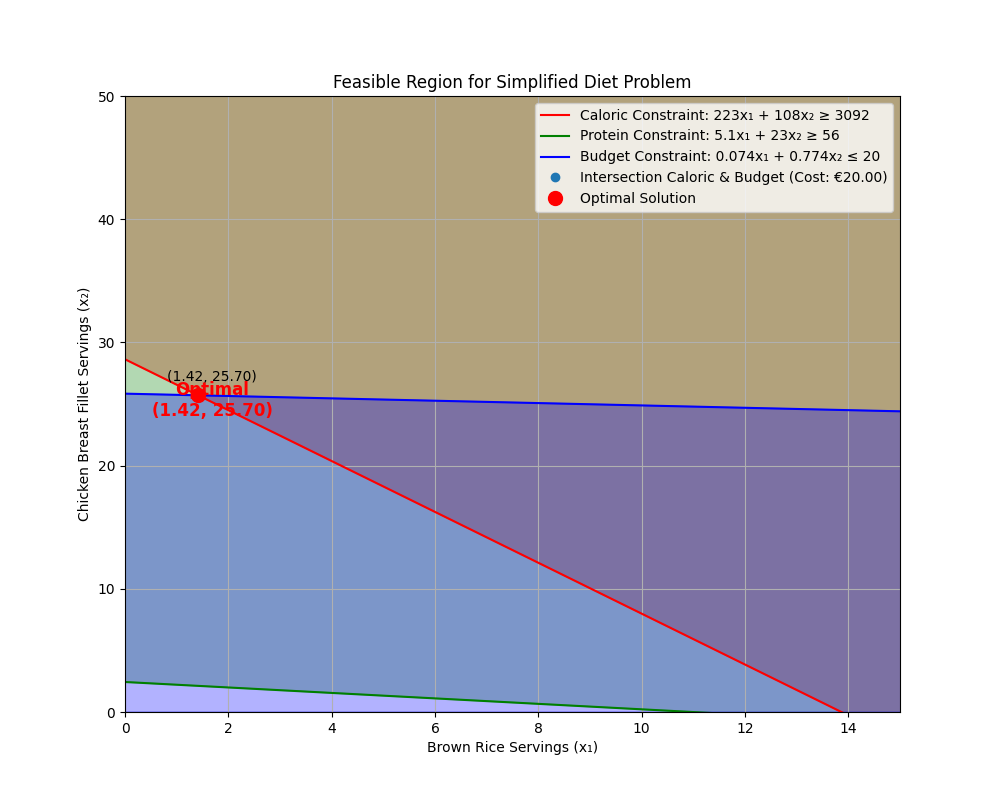
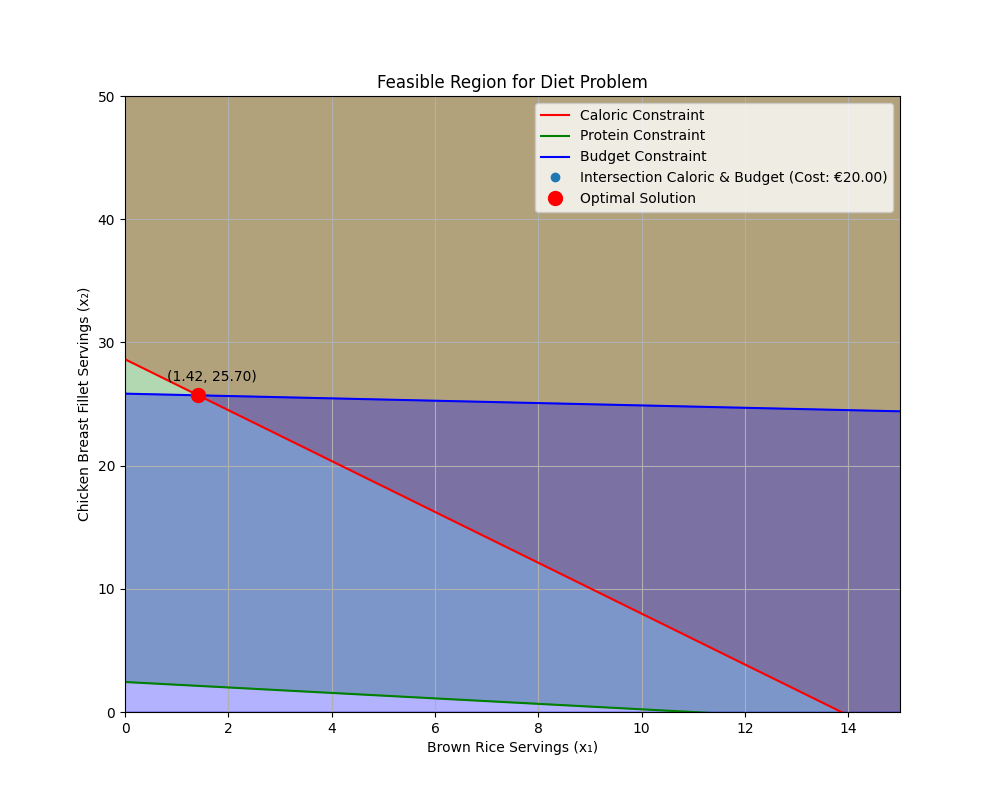
Nov 8, 2024, 3:48 PM

Changed region(s): [[0.713, 0.125, 0.868, 0.2188], [0.341, 0.0938, 0.682, 0.125], [0.155, 0.4688, 0.279, 0.5312]]

diff --git a/Management Science/Ver3.py b/Management Science/Ver3.py
@@ -1,14 +1,10 @@
-# diet_problem_enhanced.py
-
 import matplotlib.pyplot as plt
 import numpy as np
 
 def find_intersection(coeff1, const1, coeff2, const2):
     """
-    Finds the intersection point of two lines given by:
-    coeff1[0]*x + coeff1[1]*y = const1
-    coeff2[0]*x + coeff2[1]*y = const2
-    Returns (x, y) if there is a unique solution, else None.
+    Finds the intersection point of two lines.
+    Returns (x, y) if a unique solution exists, else None.
     """
     A = np.array([coeff1, coeff2])
     B = np.array([const1, const2])
@@ -16,175 +12,105 @@ def find_intersection(coeff1, const1, coeff2, const2):
         solution = np.linalg.solve(A, B)
         return tuple(solution)
     except np.linalg.LinAlgError:
-        # Lines are parallel or coincident
         return None
 
 def is_feasible(point, constraints):
     """
-    Checks if a point satisfies all constraints.
-    Constraints is a list of dictionaries with:
-    - 'type': '>=', '<=', or '='
-    - 'coefficients': [a, b] for ax + by
-    - 'constant': value on the other side
+    Checks if a point satisfies all given constraints.
     """
     x, y = point
     for constraint in constraints:
         lhs = constraint['coefficients'][0]*x + constraint['coefficients'][1]*y
-        if constraint['type'] == '>=':
-            if lhs < constraint['constant']:
-                return False
-        elif constraint['type'] == '<=':
-            if lhs > constraint['constant']:
-                return False
-        elif constraint['type'] == '=':
-            if not np.isclose(lhs, constraint['constant']):
-                return False
+        if constraint['type'] == '>=' and lhs < constraint['constant']:
+            return False
+        elif constraint['type'] == '<=' and lhs > constraint['constant']:
+            return False
+        elif constraint['type'] == '=' and not np.isclose(lhs, constraint['constant']):
+            return False
     return True
 
 def plot_constraints(x1, caloric_x2, protein_x2, budget_x2):
     """
-    Plots the constraints and shades the feasible region.
+    Plots constraints and shades feasible regions.
     """
     plt.figure(figsize=(10, 8))
-    
-    # Caloric constraint
-    plt.plot(x1, caloric_x2, label='Caloric Constraint: 223x₁ + 108x₂ ≥ 3092', color='red')
+    plt.plot(x1, caloric_x2, label='Caloric Constraint', color='red')
     plt.fill_between(x1, caloric_x2, 50, where=(caloric_x2 < 50), color='red', alpha=0.3)
-    
-    # Protein constraint
-    plt.plot(x1, protein_x2, label='Protein Constraint: 5.1x₁ + 23x₂ ≥ 56', color='green')
+    plt.plot(x1, protein_x2, label='Protein Constraint', color='green')
     plt.fill_between(x1, protein_x2, 50, where=(protein_x2 < 50), color='green', alpha=0.3)
-    
-    # Budget constraint
-    plt.plot(x1, budget_x2, label='Budget Constraint: 0.074x₁ + 0.774x₂ ≤ 20', color='blue')
+    plt.plot(x1, budget_x2, label='Budget Constraint', color='blue')
     plt.fill_between(x1, 0, budget_x2, where=(budget_x2 > 0), color='blue', alpha=0.3)
-    
-    # Feasible region boundaries
     plt.xlim(0, 15)
     plt.ylim(0, 50)
-    
-    # Labels and title
     plt.xlabel('Brown Rice Servings (x₁)')
     plt.ylabel('Chicken Breast Fillet Servings (x₂)')
-    plt.title('Feasible Region for Simplified Diet Problem')
-    
-    # Adding legend
+    plt.title('Feasible Region for Diet Problem')
     plt.legend(loc='upper right')
-    
-    # Adding grid
     plt.grid(True)
-    
     return plt
 
 def main():
-    # Define the range for x1
     x1 = np.linspace(0, 20, 400)
-    
-    # Define the constraints
-    # Caloric constraint: 223x1 + 108x2 >= 3092 => x2 >= (3092 - 223x1)/108
     caloric_x2 = (3092 - 223 * x1) / 108
-    
-    # Protein constraint: 5.1x1 + 23x2 >= 56 => x2 >= (56 - 5.1x1)/23
     protein_x2 = (56 - 5.1 * x1) / 23
-    
-    # Budget constraint: 0.074x1 + 0.774x2 <= 20 => x2 <= (20 - 0.074x1)/0.774
     budget_x2 = (20 - 0.074 * x1) / 0.774
-    
-    # Plot the constraints
     plt = plot_constraints(x1, caloric_x2, protein_x2, budget_x2)
     
-    # Define the constraints for feasibility checking
     constraints = [
-        {'type': '>=', 'coefficients': [223, 108], 'constant': 3092},   # Caloric
-        {'type': '>=', 'coefficients': [5.1, 23], 'constant': 56},     # Protein
-        {'type': '<=', 'coefficients': [0.074, 0.774], 'constant': 20} # Budget
+        {'type': '>=', 'coefficients': [223, 108], 'constant': 3092},
+        {'type': '>=', 'coefficients': [5.1, 23], 'constant': 56},
+        {'type': '<=', 'coefficients': [0.074, 0.774], 'constant': 20}
     ]
     
-    # Define the equations for intersection
-    # 1. Caloric and Protein
     intersection1 = find_intersection([223, 108], 3092, [5.1, 23], 56)
-    
-    # 2. Caloric and Budget
     intersection2 = find_intersection([223, 108], 3092, [0.074, 0.774], 20)
-    
-    # 3. Protein and Budget
     intersection3 = find_intersection([5.1, 23], 56, [0.074, 0.774], 20)
     
-    # List of intersection points
     intersections = []
     labels = []
     
-    # Check each intersection for feasibility
-    if intersection1:
-        if is_feasible(intersection1, constraints):
-            intersections.append(intersection1)
-            labels.append('Intersection Caloric & Protein')
+    if intersection1 and is_feasible(intersection1, constraints):
+        intersections.append(intersection1)
+        labels.append('Intersection Caloric & Protein')
+    if intersection2 and is_feasible(intersection2, constraints):
+        intersections.append(intersection2)
+        labels.append('Intersection Caloric & Budget')
+    if intersection3 and is_feasible(intersection3, constraints):
+        intersections.append(intersection3)
+        labels.append('Intersection Protein & Budget')
     
-    if intersection2:
-        if is_feasible(intersection2, constraints):
-            intersections.append(intersection2)
-            labels.append('Intersection Caloric & Budget')
-    
-    if intersection3:
-        if is_feasible(intersection3, constraints):
-            intersections.append(intersection3)
-            labels.append('Intersection Protein & Budget')
-    
-    # Print the intersection points
     print("=== Intersection Points ===")
     for i, point in enumerate(intersections):
         print(f"{labels[i]}: x₁ = {point[0]:.2f}, x₂ = {point[1]:.2f}")
-    
-    # If no feasible intersection points, notify the user
     if not intersections:
         print("No feasible intersection points found.")
         return
     
-    # Define the objective function coefficients
-    # Z = 0.074x1 + 0.774x2
     def objective(x1, x2):
         return 0.074 * x1 + 0.774 * x2
     
-    # Evaluate the objective function at each feasible intersection
-    costs = []
-    for point in intersections:
-        cost = objective(point[0], point[1])
-        costs.append(cost)
-        print(f"Cost at {labels[intersections.index(point)]}: €{cost:.2f}")
+    costs = [objective(point[0], point[1]) for point in intersections]
+    for i, cost in enumerate(costs):
+        print(f"Cost at {labels[i]}: €{cost:.2f}")
     
-    # Determine the optimal solution (minimum cost)
     min_cost_index = np.argmin(costs)
     optimal_point = intersections[min_cost_index]
-    optimal_label = labels[min_cost_index]
-    optimal_cost = costs[min_cost_index]
-    
     print("\n=== Optimal Solution ===")
     print(f"Optimal Point: x₁ = {optimal_point[0]:.2f}, x₂ = {optimal_point[1]:.2f}")
-    print(f"Minimum Cost: €{optimal_cost:.2f}")
+    print(f"Minimum Cost: €{costs[min_cost_index]:.2f}")
     
-    # Plot the intersection points
     for i, point in enumerate(intersections):
         plt.plot(point[0], point[1], 'o', label=f"{labels[i]} (Cost: €{costs[i]:.2f})")
         plt.annotate(f"({point[0]:.2f}, {point[1]:.2f})", (point[0], point[1]),
                      textcoords="offset points", xytext=(10,10), ha='center')
     
-    # Highlight the optimal point
     plt.plot(optimal_point[0], optimal_point[1], 'ro', markersize=10, label='Optimal Solution')
     plt.annotate(f"Optimal\n({optimal_point[0]:.2f}, {optimal_point[1]:.2f})",
-                 (optimal_point[0], optimal_point[1]),
-                 textcoords="offset points", xytext=(10,-15), ha='center', color='red',
+                 (optimal_point[0], optimal_point[1]), xytext=(10,-15), ha='center', color='red',
                  fontsize=12, fontweight='bold')
-    
-    # Update the legend to include new points
     plt.legend(loc='upper right')
-    
-    # Save the updated plot as an image file
     plt.savefig('diet_problem_with_optimal.png')
-    
-    # Show the plot (optional, since you might run this in a terminal)
-    # plt.show()
-    
-    print("\nThe plot with intersection points and the optimal solution has been saved as 'diet_problem_with_optimal.png'.")
+    print("\nThe plot with intersection points and the optimal solution has been saved.")
 
 if __name__ == "__main__":
     main()
